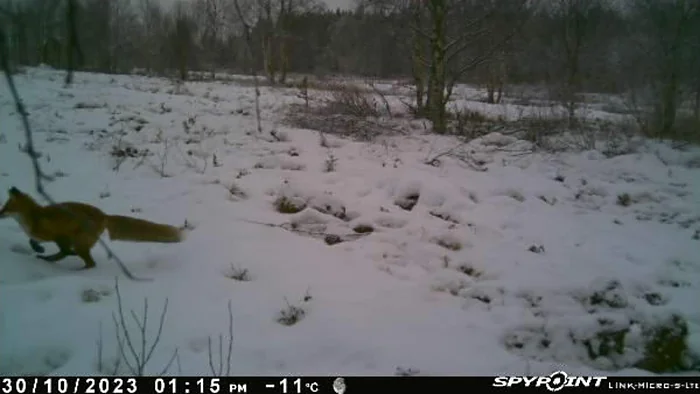
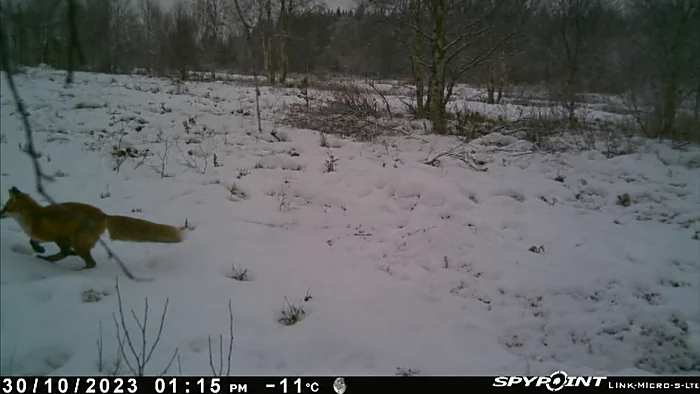
Add files via upload

diff --git a/en/index.html b/en/index.html
@@ -568,7 +568,6 @@ window.SITE = {
       <div class="tc-tile reveal"><img src="../assets/trailcam/trailcam-03.webp" srcset="../assets/trailcam/trailcam-03-mobile.webp 700w, ../assets/trailcam/trailcam-03.webp 960w" sizes="(max-width: 460px) 50vw, (max-width: 700px) 33vw, (max-width: 980px) 25vw, (min-width: 1180px) 220px, 20vw" alt="4 Feb 2024 at 09:19, −16°C — frost-covered branches above the snowy field" loading="lazy" width="960" height="540"></div>
       <div class="tc-tile reveal"><img src="../assets/trailcam/trailcam-04.webp" srcset="../assets/trailcam/trailcam-04-mobile.webp 700w, ../assets/trailcam/trailcam-04.webp 960w" sizes="(max-width: 460px) 50vw, (max-width: 700px) 33vw, (max-width: 980px) 25vw, (min-width: 1180px) 220px, 20vw" alt="3 Apr 2024 at 15:47, −4°C — the open snow-covered field in spring" loading="lazy" width="960" height="540"></div>
       <div class="tc-tile reveal"><img src="../assets/trailcam/trailcam-05.webp" srcset="../assets/trailcam/trailcam-05-mobile.webp 700w, ../assets/trailcam/trailcam-05.webp 960w" sizes="(max-width: 460px) 50vw, (max-width: 700px) 33vw, (max-width: 980px) 25vw, (min-width: 1180px) 220px, 20vw" alt="3 May 2024 at 00:54, −3°C — a mountain hare at night" loading="lazy" width="960" height="540"></div>
-      <div class="tc-tile reveal"><img src="../assets/trailcam/trailcam-06.webp" srcset="../assets/trailcam/trailcam-06-mobile.webp 700w, ../assets/trailcam/trailcam-06.webp 960w" sizes="(max-width: 460px) 50vw, (max-width: 700px) 33vw, (max-width: 980px) 25vw, (min-width: 1180px) 220px, 20vw" alt="15 May 2024 at 14:02, 16°C — melting snow reveals the ground" loading="lazy" width="960" height="540"></div>
       <div class="tc-tile reveal"><img src="../assets/trailcam/trailcam-07.webp" srcset="../assets/trailcam/trailcam-07-mobile.webp 700w, ../assets/trailcam/trailcam-07.webp 960w" sizes="(max-width: 460px) 50vw, (max-width: 700px) 33vw, (max-width: 980px) 25vw, (min-width: 1180px) 220px, 20vw" alt="22 Jun 2024 at 15:13, 11°C — lush grass in June" loading="lazy" width="960" height="540"></div>
       <div class="tc-tile reveal"><img src="../assets/trailcam/trailcam-08.webp" srcset="../assets/trailcam/trailcam-08-mobile.webp 700w, ../assets/trailcam/trailcam-08.webp 960w" sizes="(max-width: 460px) 50vw, (max-width: 700px) 33vw, (max-width: 980px) 25vw, (min-width: 1180px) 220px, 20vw" alt="25 Jul 2024 at 05:47, 9°C — reindeer in morning mist in the field" loading="lazy" width="960" height="540"></div>
       <div class="tc-tile reveal"><img src="../assets/trailcam/trailcam-09.webp" srcset="../assets/trailcam/trailcam-09-mobile.webp 700w, ../assets/trailcam/trailcam-09.webp 960w" sizes="(max-width: 460px) 50vw, (max-width: 700px) 33vw, (max-width: 980px) 25vw, (min-width: 1180px) 220px, 20vw" alt="9 Aug 2024 at 06:59, 10°C — the green field in August" loading="lazy" width="960" height="540"></div>

diff --git a/index.html b/index.html
@@ -568,7 +568,6 @@ window.SITE = {
       <div class="tc-tile reveal"><img src="assets/trailcam/trailcam-03.webp" srcset="assets/trailcam/trailcam-03-mobile.webp 700w, assets/trailcam/trailcam-03.webp 960w" sizes="(max-width: 460px) 50vw, (max-width: 700px) 33vw, (max-width: 980px) 25vw, (min-width: 1180px) 220px, 20vw" alt="4.2.2024 klo 09:19, −16°C — huurteiset oksat lumisen pellon yllä" loading="lazy" width="960" height="540"></div>
       <div class="tc-tile reveal"><img src="assets/trailcam/trailcam-04.webp" srcset="assets/trailcam/trailcam-04-mobile.webp 700w, assets/trailcam/trailcam-04.webp 960w" sizes="(max-width: 460px) 50vw, (max-width: 700px) 33vw, (max-width: 980px) 25vw, (min-width: 1180px) 220px, 20vw" alt="3.4.2024 klo 15:47, −4°C — aavaa lumipeltoa keväällä" loading="lazy" width="960" height="540"></div>
       <div class="tc-tile reveal"><img src="assets/trailcam/trailcam-05.webp" srcset="assets/trailcam/trailcam-05-mobile.webp 700w, assets/trailcam/trailcam-05.webp 960w" sizes="(max-width: 460px) 50vw, (max-width: 700px) 33vw, (max-width: 980px) 25vw, (min-width: 1180px) 220px, 20vw" alt="3.5.2024 klo 00:54, −3°C — metsäjänis yöllä" loading="lazy" width="960" height="540"></div>
-      <div class="tc-tile reveal"><img src="assets/trailcam/trailcam-06.webp" srcset="assets/trailcam/trailcam-06-mobile.webp 700w, assets/trailcam/trailcam-06.webp 960w" sizes="(max-width: 460px) 50vw, (max-width: 700px) 33vw, (max-width: 980px) 25vw, (min-width: 1180px) 220px, 20vw" alt="15.5.2024 klo 14:02, 16°C — sula lumi paljastaa maan" loading="lazy" width="960" height="540"></div>
       <div class="tc-tile reveal"><img src="assets/trailcam/trailcam-07.webp" srcset="assets/trailcam/trailcam-07-mobile.webp 700w, assets/trailcam/trailcam-07.webp 960w" sizes="(max-width: 460px) 50vw, (max-width: 700px) 33vw, (max-width: 980px) 25vw, (min-width: 1180px) 220px, 20vw" alt="22.6.2024 klo 15:13, 11°C — rehevä heinikko kesäkuussa" loading="lazy" width="960" height="540"></div>
       <div class="tc-tile reveal"><img src="assets/trailcam/trailcam-08.webp" srcset="assets/trailcam/trailcam-08-mobile.webp 700w, assets/trailcam/trailcam-08.webp 960w" sizes="(max-width: 460px) 50vw, (max-width: 700px) 33vw, (max-width: 980px) 25vw, (min-width: 1180px) 220px, 20vw" alt="25.7.2024 klo 05:47, 9°C — poroja aamu-usvassa pellolla" loading="lazy" width="960" height="540"></div>
       <div class="tc-tile reveal"><img src="assets/trailcam/trailcam-09.webp" srcset="assets/trailcam/trailcam-09-mobile.webp 700w, assets/trailcam/trailcam-09.webp 960w" sizes="(max-width: 460px) 50vw, (max-width: 700px) 33vw, (max-width: 980px) 25vw, (min-width: 1180px) 220px, 20vw" alt="9.8.2024 klo 06:59, 10°C — vehreä pelto elokuussa" loading="lazy" width="960" height="540"></div>
